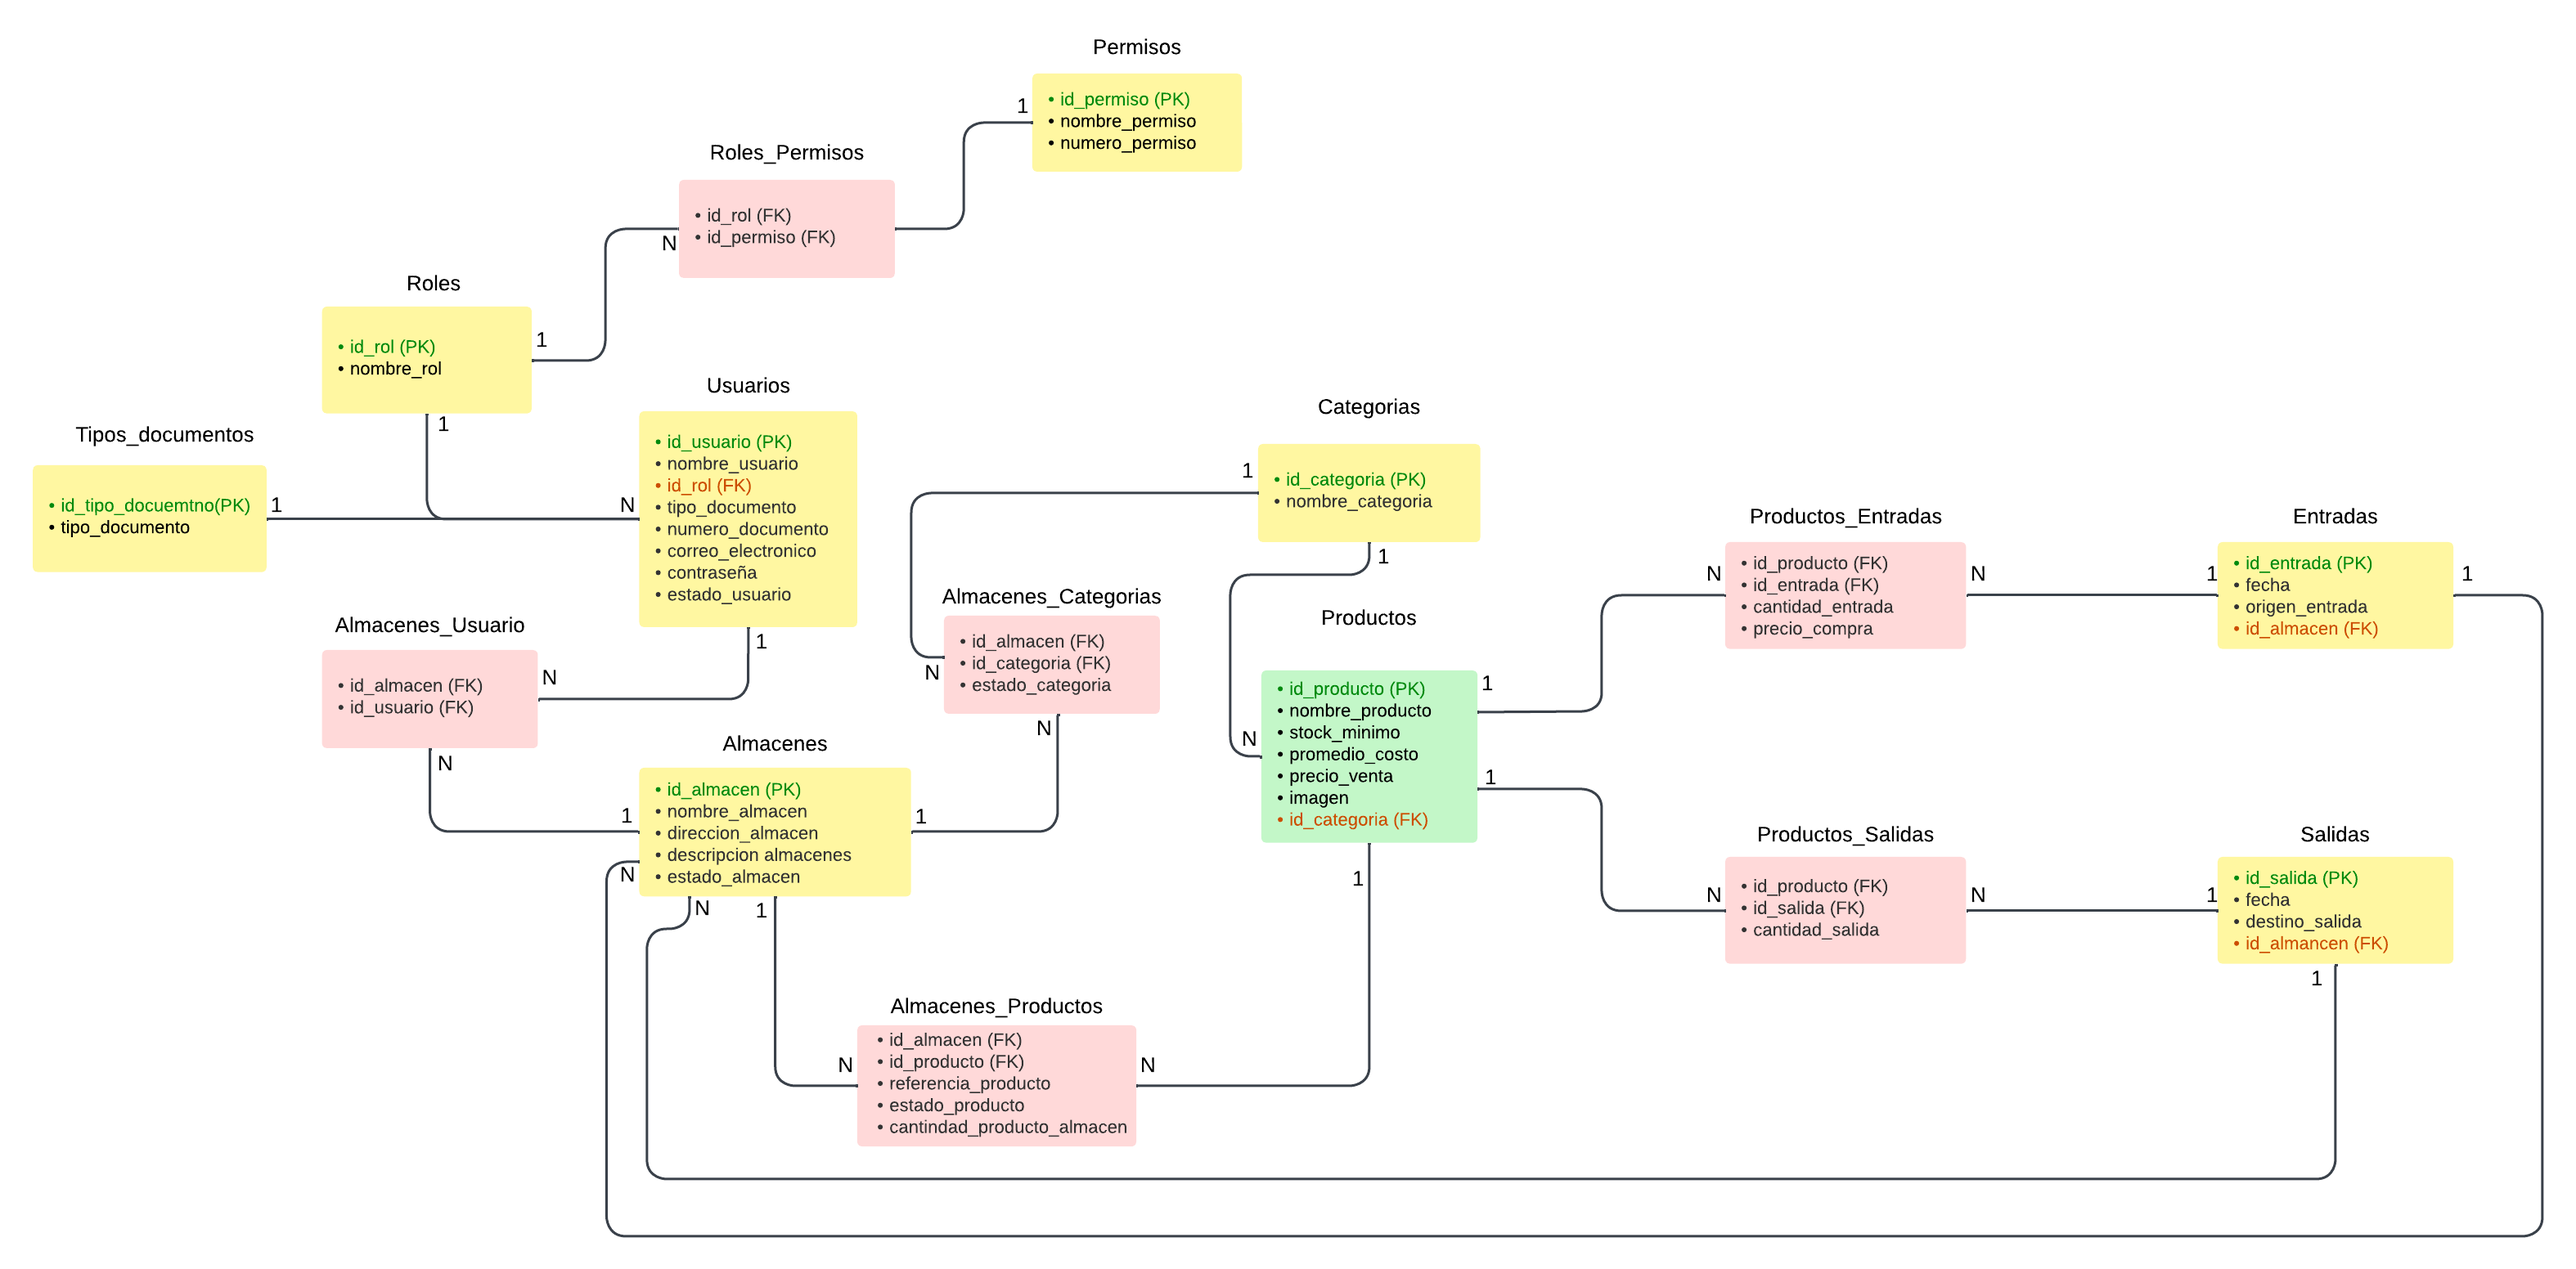
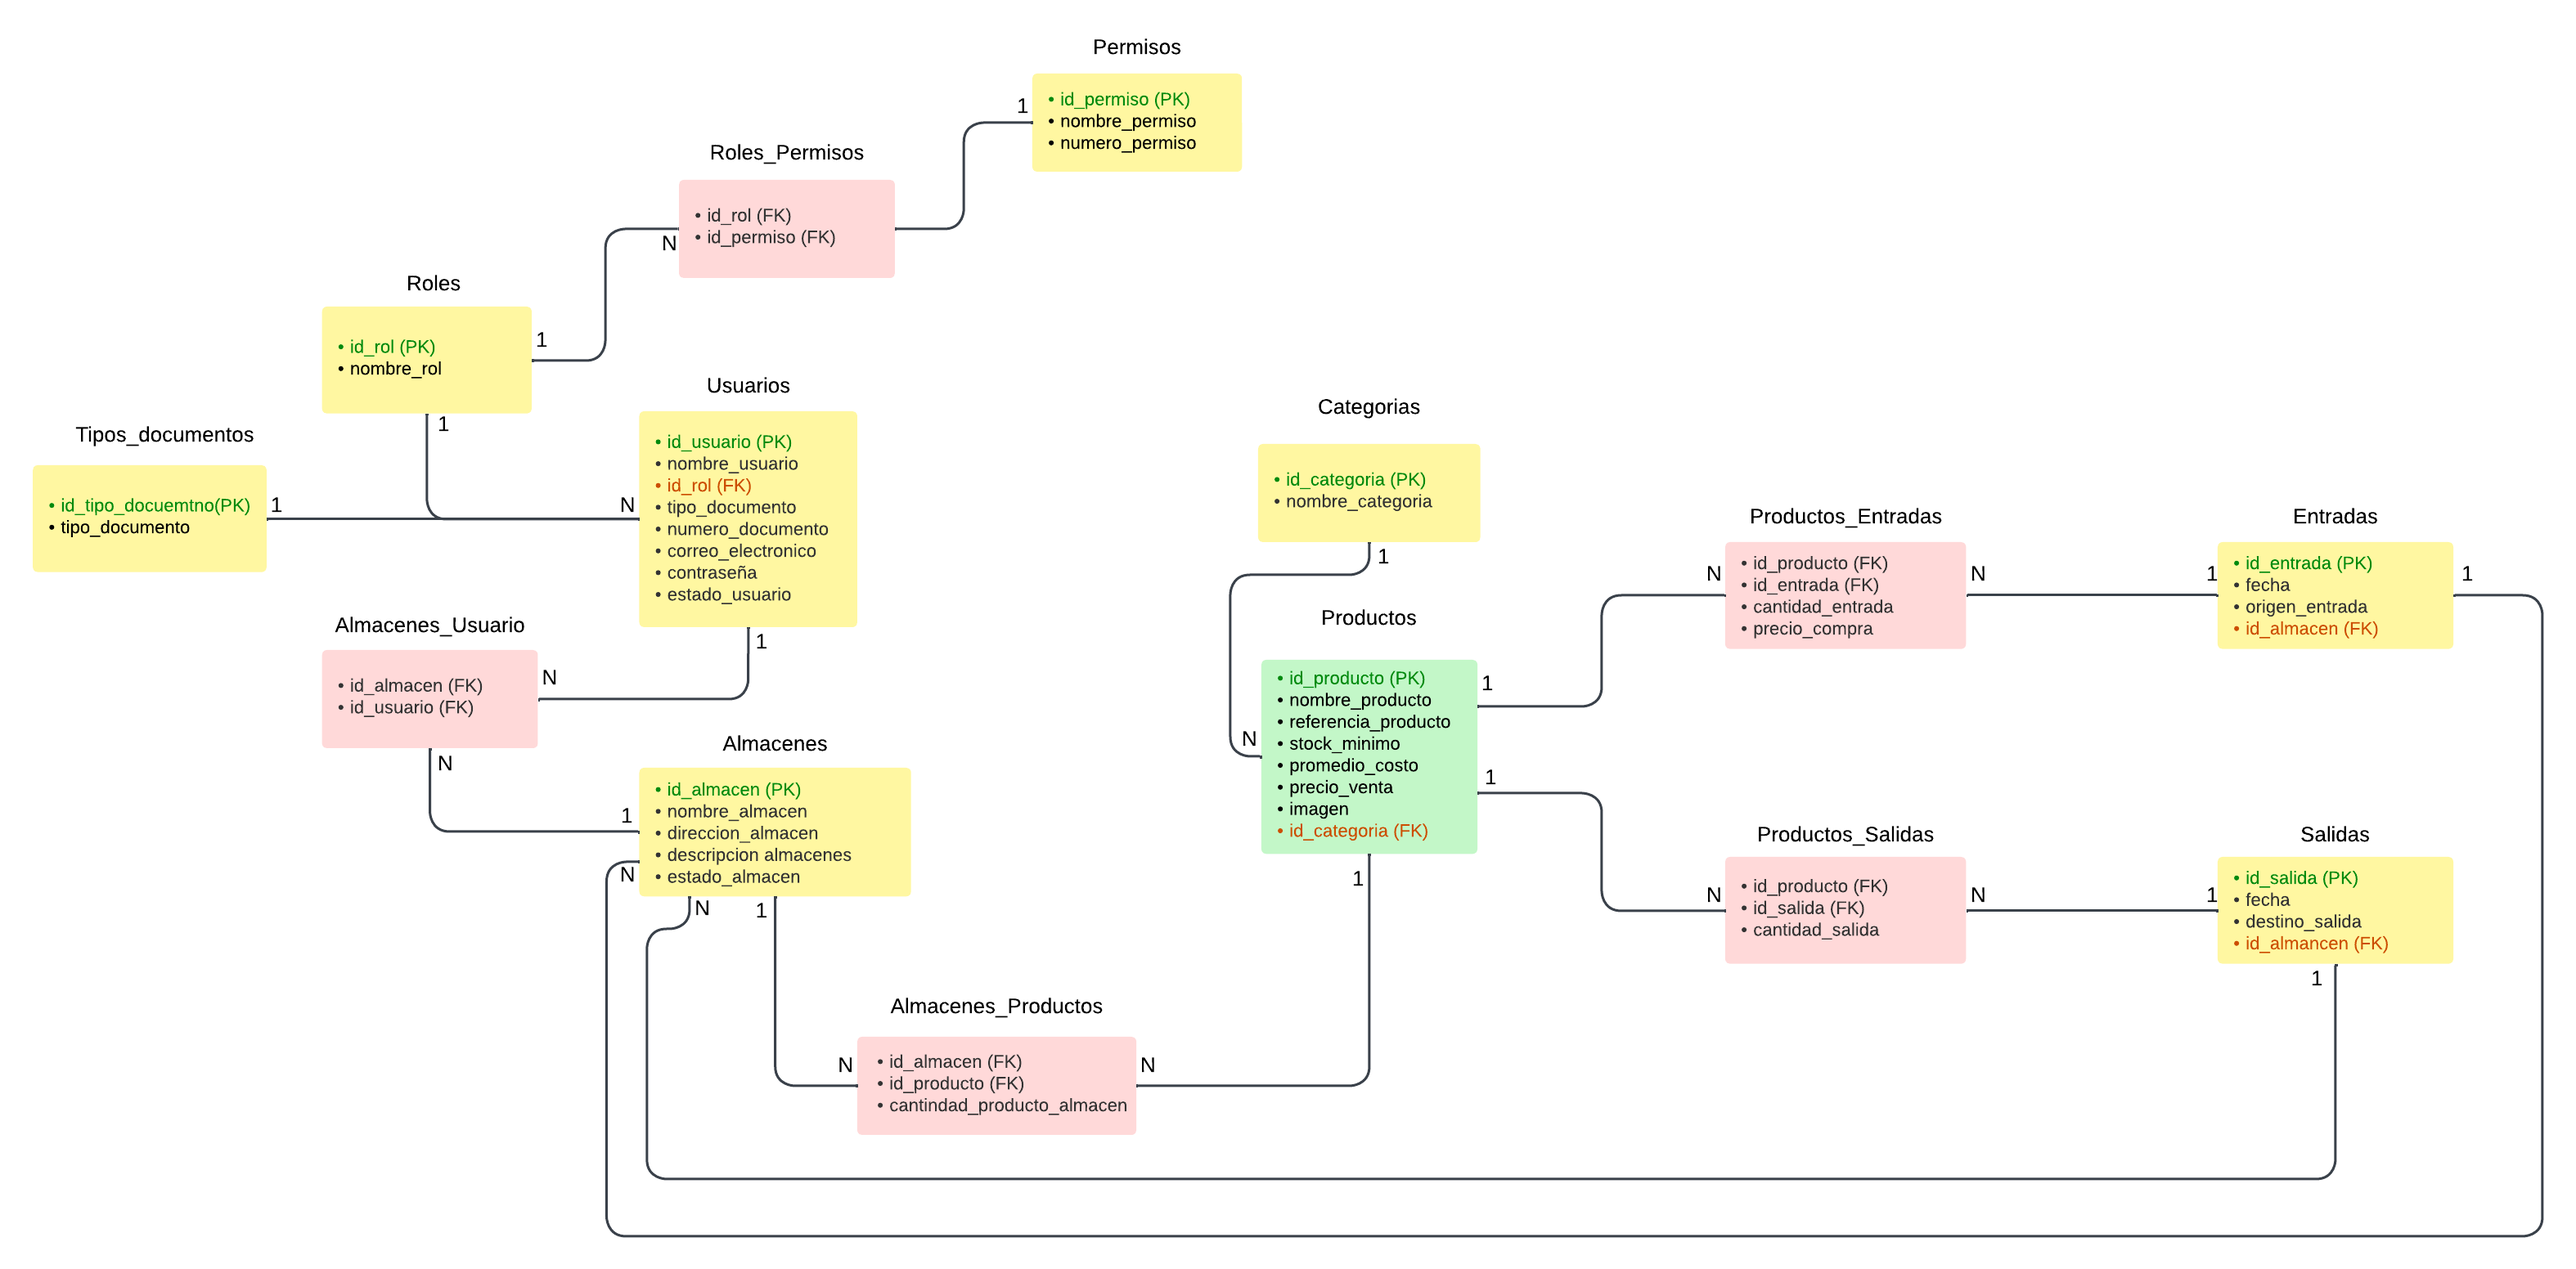
Correcion
Se cambia modelo de DB, se corrigen consultas en para las entidad Producto.

Se corrige consulta del método Producto.create,   Prodcuto.assign, Producto.getAllProduct y Producto.updateDetails

El ultimo método se debe de revisar para que el servidor funcione.

diff --git a/src/models/productos.js b/src/models/productos.js
@@ -4,9 +4,8 @@ const Producto = {}; // Crear el objeto Producto
 
 Producto.create = ( producto, result ) => {
     const sql = `
-        SELECT COUNT(*) AS datos_existentes FROM almacenes_productos
-        JOIN productos ON almacenes_productos.id_producto = productos.id_producto 
-        WHERE (nombre_producto = ? OR referencia_producto = ?) AND id_almacen = ?;
+        SELECT COUNT(*) AS datos_existentes FROM productos
+        WHERE nombre_producto = ? OR referencia_producto = ?
     `; // Consulta para verificar si el producto ya existe
     db.query( // Ejecutar la consulta
         sql,
@@ -27,13 +26,14 @@ Producto.create = ( producto, result ) => {
                 }
                 else {
                     const sql = `
-                    INSERT INTO productos(nombre_producto, stock_minimo, promedio_costo, precio_venta, imagen, id_categoria) 
-                    VALUES (?,?,?,?,?,?)
+                    INSERT INTO productos(nombre_producto,  referencia_producto, stock_minimo, promedio_costo, precio_venta, imagen, id_categoria) 
+                    VALUES (?,?,?,?,?,?,?)
                     `; // Consulta para insertar un producto
                     db.query(
                         sql,
                         [
                             producto.nombre_producto,
+                            producto.referencia_producto,
                             producto.stock_minimo,
                             producto.promedio_costo,
                             producto.precio_venta,
@@ -48,15 +48,14 @@ Producto.create = ( producto, result ) => {
                             else{
                                 let id_producto = res.insertId;
                                 const sql = `
-                                INSERT INTO almacenes_productos(id_almacen, id_producto, referencia_producto, cantidad_producto_almacen)
-                                VALUES (?,?,?,?)
+                                INSERT INTO almacenes_productos(id_almacen, id_producto, cantidad_producto_almacen)
+                                VALUES (?,?,?)
                                 `;
                                 db.query(
                                     sql,
                                     [
                                         producto.id_almacen,
                                         id_producto,
-                                        producto.referencia_producto,
                                         producto.cantidad_producto_almacen
                                     ],
                                     ( err, res ) => {
@@ -82,15 +81,14 @@ Producto.create = ( producto, result ) => {
 Producto.assign = ( producto, result ) => {
     const sql = 
     `
-    INSERT INTO almacenes_productos(id_almacen, id_producto, referencia_producto, cantidad_producto_almacen)
-    VALUES (?,?,?,?)
+    INSERT INTO almacenes_productos(id_almacen, id_producto, cantidad_producto_almacen)
+    VALUES (?,?,?)
     `;
     db.query(
         sql,
         [
             producto.id_almacen,
             producto.id_producto,
-            producto.referencia_producto,
             producto.cantidad_producto_almacen
         ],
         ( err, res ) => {
@@ -112,7 +110,7 @@ Producto.getAllProductByStore = (producto, result ) => {
     FROM Productos
     JOIN categorias ON productos.id_categoria = categorias.id_categoria
     JOIN almacenes_productos ON productos.id_producto = almacenes_productos.id_producto
-    WHERE almacenes_productos.id_almacen = ? AND estado_producto_almacen = 1
+    WHERE almacenes_productos.id_almacen = ? AND cantidad_producto_almacen > 0
     `; // Consulta para leer todos los productos
     db.query(
         sql,
@@ -134,8 +132,7 @@ Producto.getAllProductByStore = (producto, result ) => {
 
 Producto.getAllProduct = (result) => {
     const sql = `
-    SELECT productos.*, almacenes_productos.referencia_producto FROM productos
-    JOIN almacenes_productos ON productos.id_producto = almacenes_productos.id_producto
+    SELECT * FROM productos
     `; //Consulta para leer todos los productos
     db.query(
         sql,
@@ -218,15 +215,17 @@ Producto.getDetails = ( producto, result ) => {
 
 Producto.updateDetails = ( producto, result ) => {
     const sql = `
-    SELECT COUNT(*) AS datos_existentes FROM almacenes_productos
-    WHERE referencia_producto = ? 
+    SELECT COUNT(*) AS datos_existentes FROM productos
+    WHERE referencia_producto = ? AND id_producto = ?
     `;
     db.query(
         sql,
         [
             producto.referencia_producto,
+            producto.id_producto,
         ],
         ( err, res ) => { 
+            console.log( 'Mensaje de prueba' );
             if( err ) {
                 console.log( 'error: ', err );
                 result( err, null );
@@ -236,9 +235,12 @@ Producto.updateDetails = ( producto, result ) => {
                 if( res[0].datos_existentes > 0 ) {
                     result(null, { message: 'El producto ya existe' });
                 }else{
+                    console.log("Ingrese 2 consulta", producto);
                     const sql = `
-                    UPDATE Productos
-                    SET nombre_producto = ?,
+                    UPDATE productos
+                    SET 
+                        referencia_producto = ?,
+                        nombre_producto = ?,
                         stock_minimo = ?,
                         precio_venta = ?,
                         imagen = ?,
@@ -247,6 +249,7 @@ Producto.updateDetails = ( producto, result ) => {
                     `;
                     sql, 
                     [
+                        producto.referencia_producto,
                         producto.nombre_producto,
                         producto.stock_minimo,
                         producto.precio_venta,
